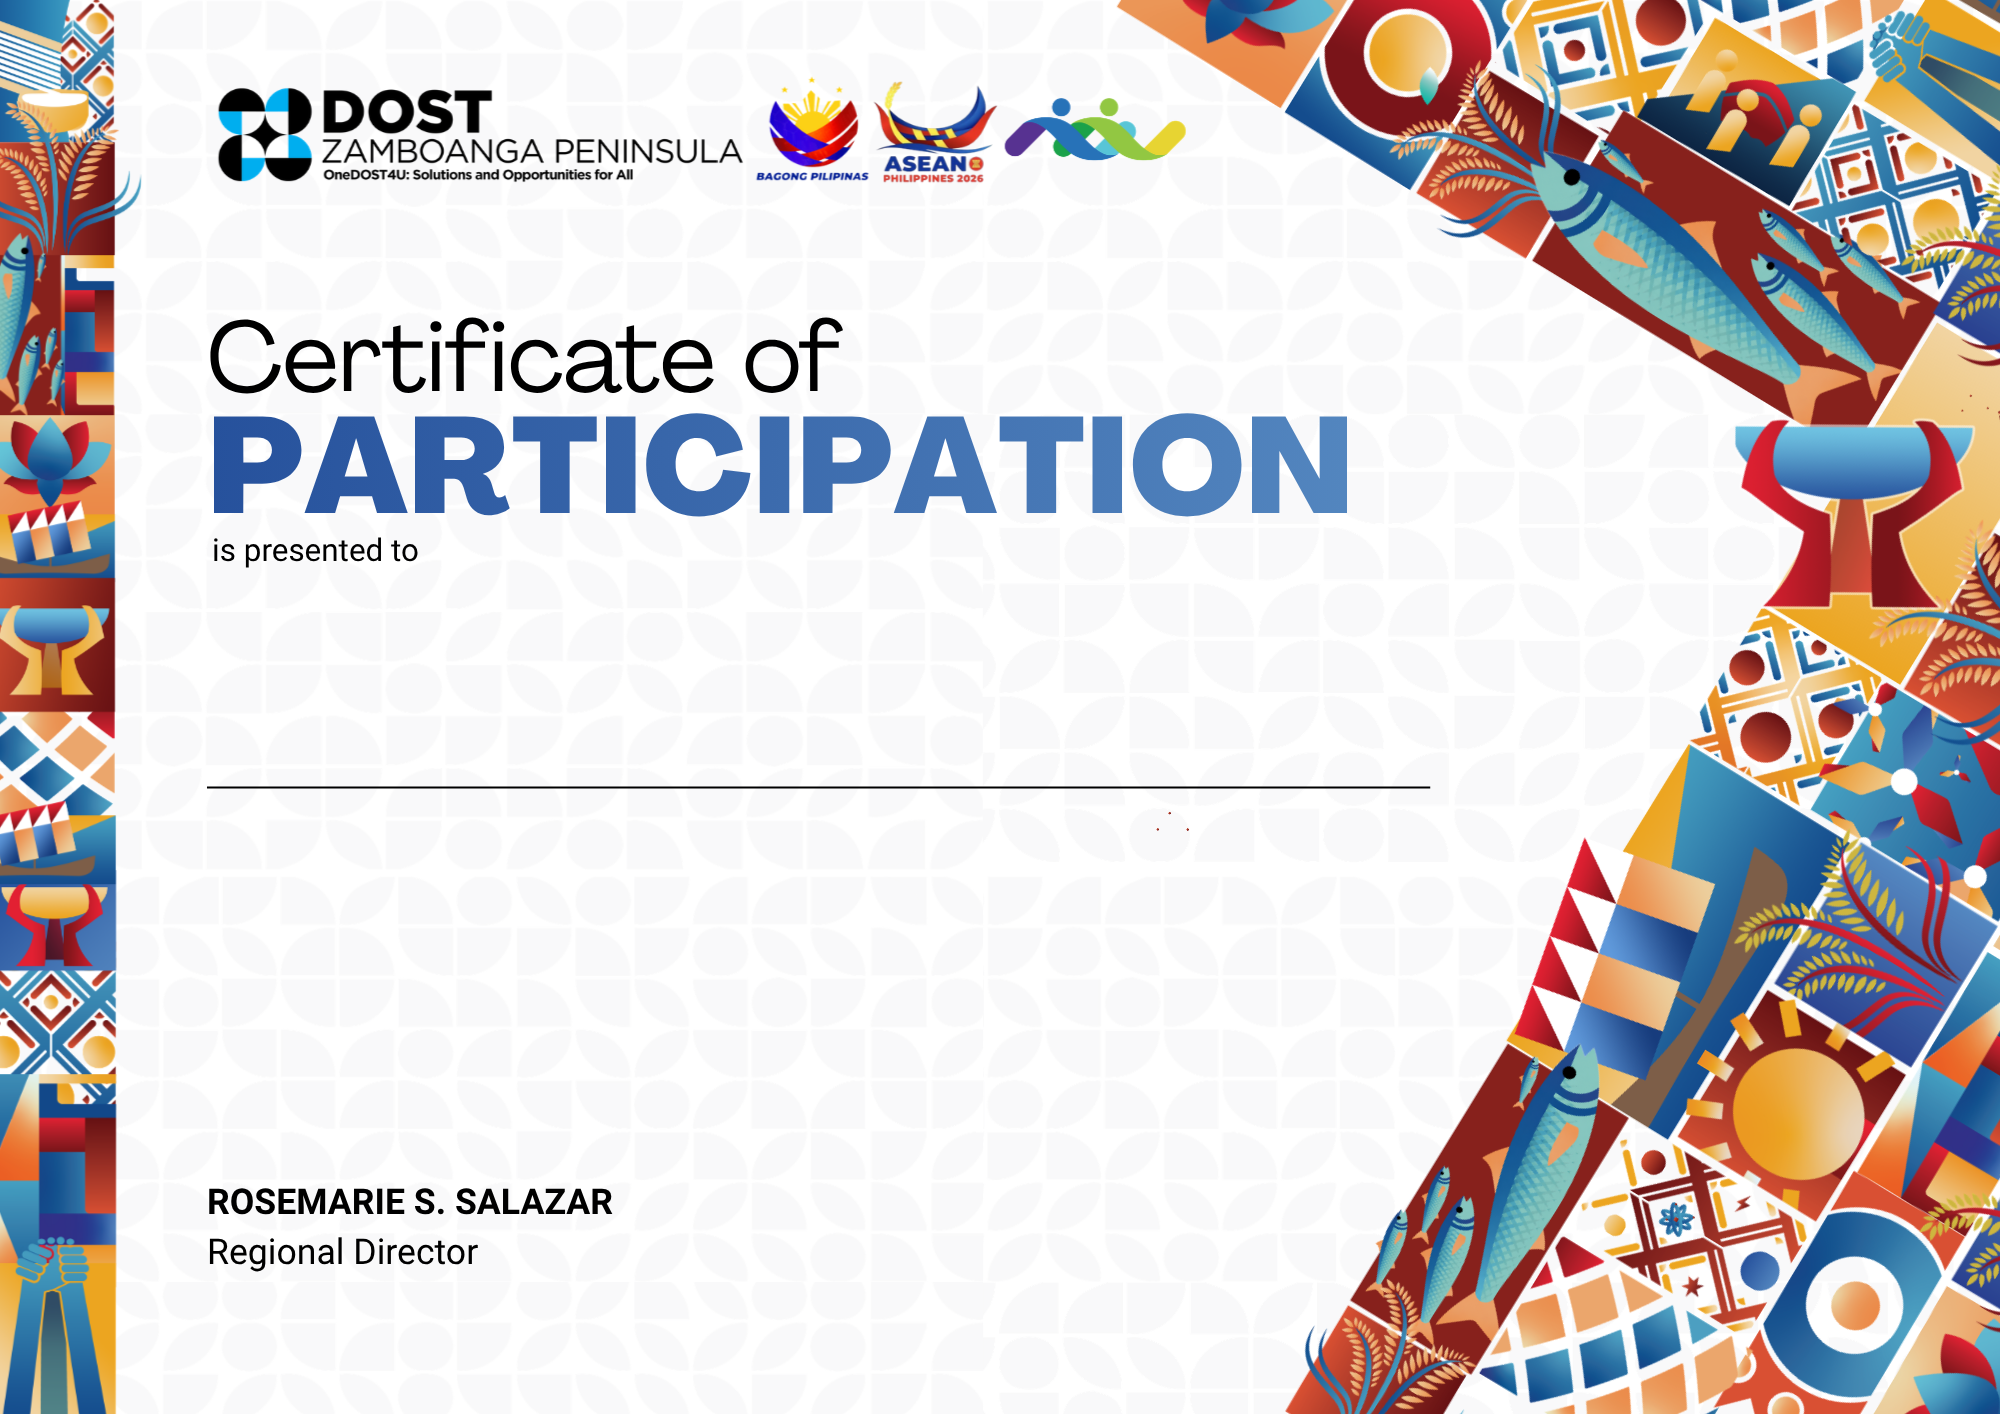
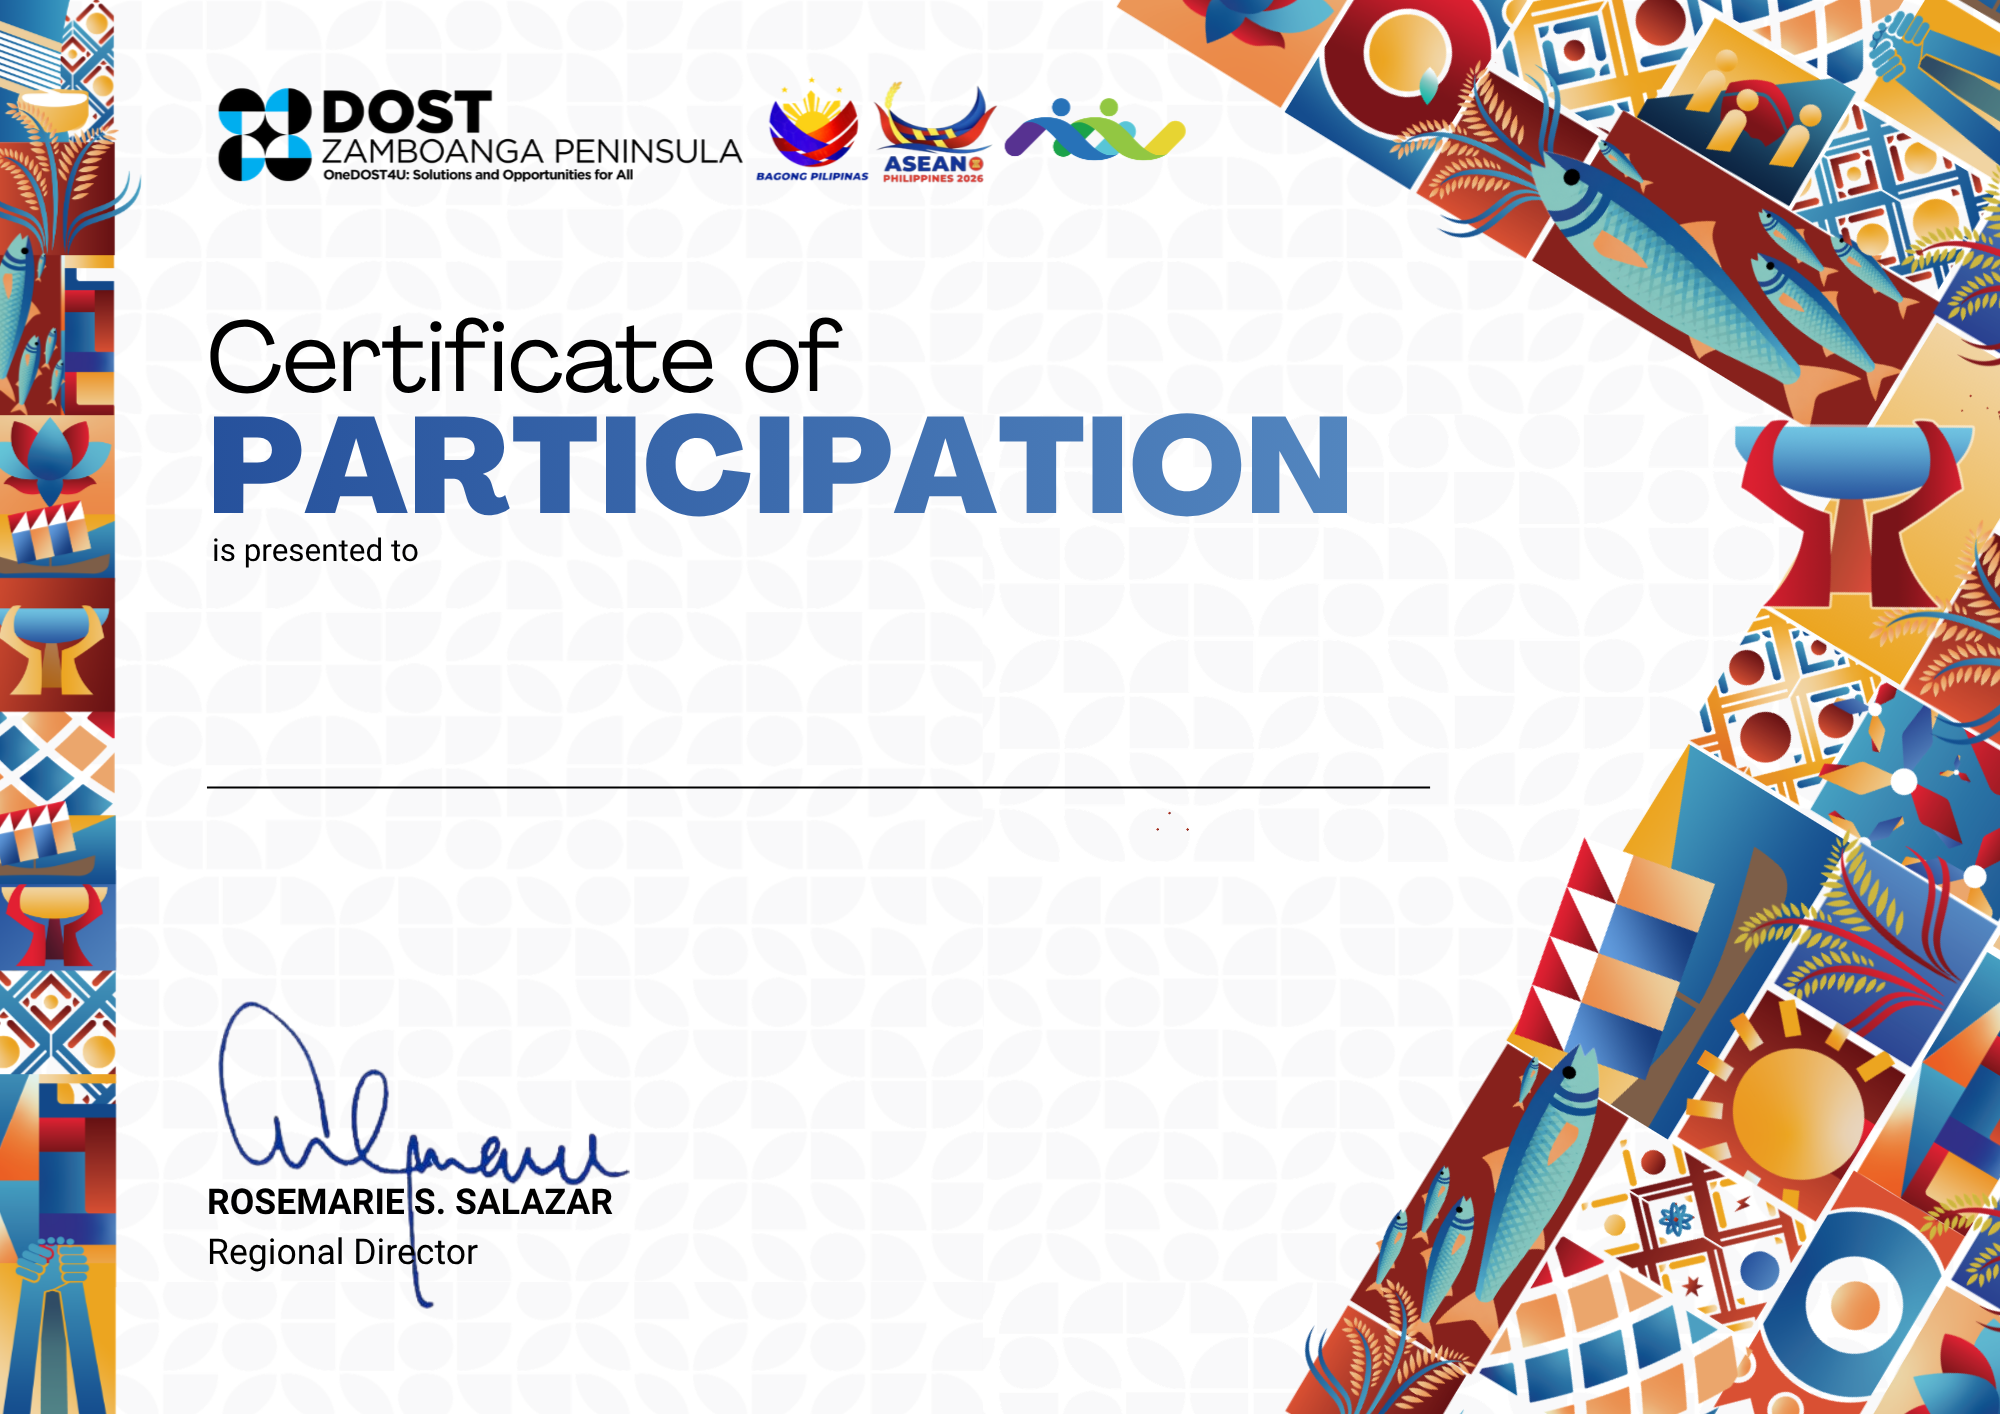
hjkh

Changed region(s): [[0.124, 0.7468, 0.31, 0.9335], [0.093, 0.7157, 0.155, 0.7468]]

diff --git a/resources/views/certificates/appearance.blade.php b/resources/views/certificates/appearance.blade.php
@@ -221,7 +221,7 @@
         </div>
         @else
         <div class="signature">
-            <img src="{{ public_path('images/esig.png') }}" alt="Signature">
+            <img src="{{ public_path('images/nma.png') }}" alt="Signature">
             <p class="name">NUHMAN M. ALJANI</p>
             <p class="position">Provincial S&T Director</p>
         </div>
